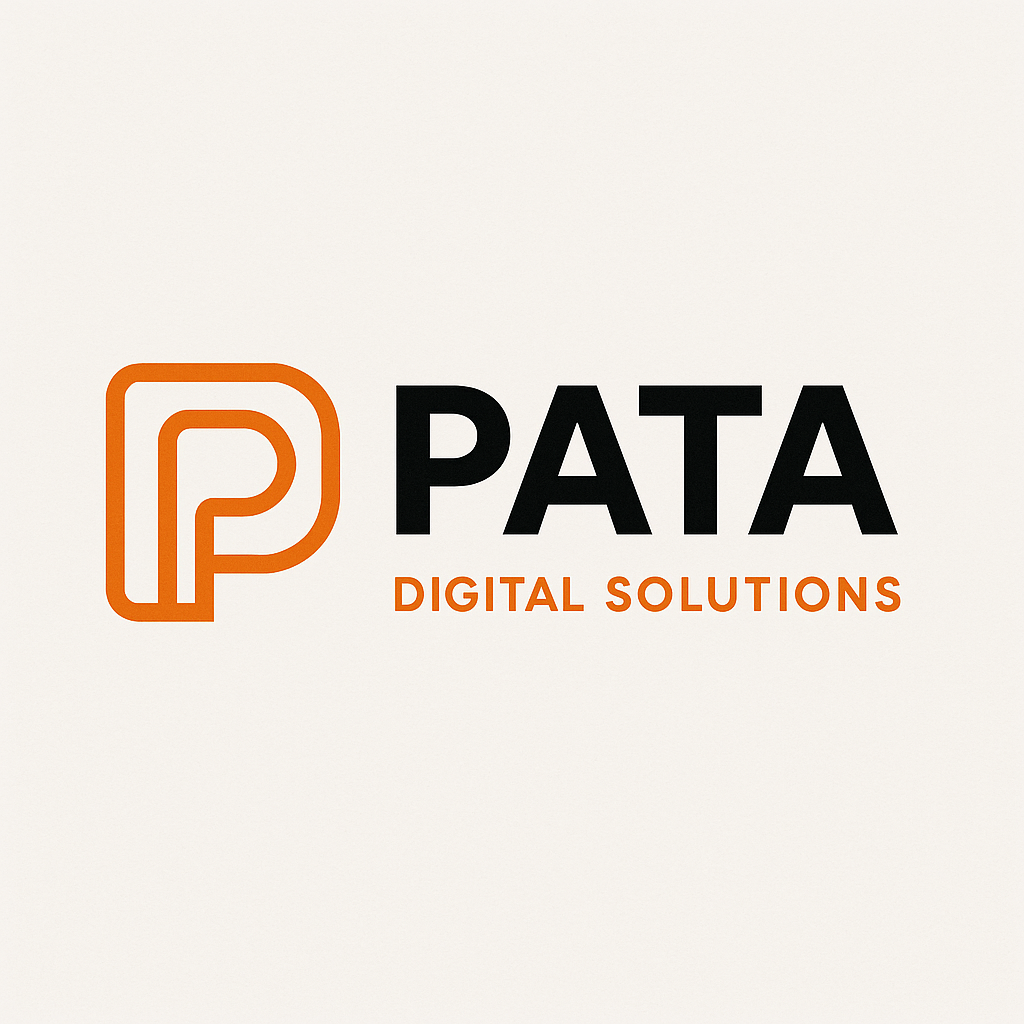
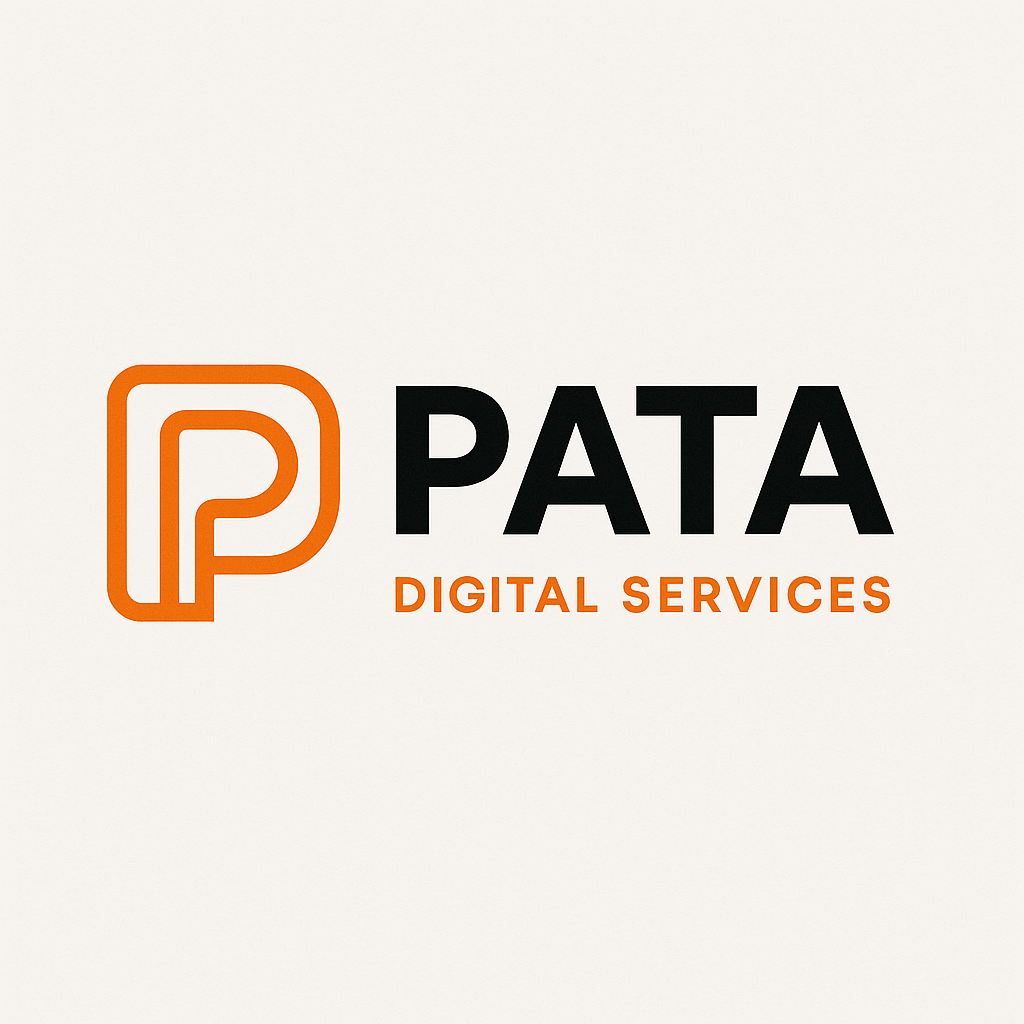
kik

diff --git a/src/components/Footer.tsx b/src/components/Footer.tsx
@@ -7,7 +7,7 @@ export default function Footer() {
         <div className="grid md:grid-cols-4 gap-8 mb-8">
           <div className="col-span-2">
             <h3 className="text-2xl font-bold mb-4">
-              PATA<span className="text-amber-500"> Web Services</span>
+              PATA<span className="text-amber-500"> Digital Services</span>
             </h3>
             <p className="text-gray-400 leading-relaxed mb-4">
               Creating exceptional web experiences that drive results. Your vision, our expertise.
@@ -84,10 +84,10 @@ export default function Footer() {
 
         <div className="border-t border-gray-900 pt-8 flex flex-col md:flex-row justify-between items-center gap-4">
           <p className="text-gray-400 text-sm flex items-center gap-2">
-            Made by PATA Digital Solutions
+            Made by PATA Digital Services
           </p>
           <p className="text-gray-400 text-sm">
-            {currentYear} PATA Digital Solutions. All rights reserved.
+            {currentYear} PATA Digital Services. All rights reserved.
           </p>
         </div>
       </div>

diff --git a/src/components/PortfolioCarousel.tsx b/src/components/PortfolioCarousel.tsx
@@ -23,11 +23,11 @@ const projects: Project[] = [
   },
   {
     id: 2,
-    title: 'Pata Main Website',
+    title: 'Pata Digital Services',
     category: 'Web Development',
     description: 'Professional and Interactive website that serves as a marketing tool for potential clients.',
     image: '/patalogwhite.png',
-    tags: ['React.js', 'SEO Optimization'],
+    tags: ['React', 'Next.jz', 'Tailwing CSS', 'SEO Optimization'],
     link: '#',
   },
   {
@@ -41,7 +41,7 @@ const projects: Project[] = [
   },
   {
     id: 4,
-    title: 'CCG Website',
+    title: 'Colts Consulting Services',
     category: 'Web Design',
     description: 'Modern website highlighting business consulting services and impact.',
     image: 'https://www.coltsccg.com/CCG%20Logo.png',

diff --git a/src/components/HeroSection.tsx b/src/components/HeroSection.tsx
@@ -2,7 +2,7 @@ import { useEffect, useState } from 'react';
 import { ArrowRight } from 'lucide-react';
 
 const codeLines = [
-  { text: 'const website = new PATA Web Services();', delay: 0 },
+  { text: 'const website = new PATA Digital Services();', delay: 0 },
   { text: 'website.design({ style: "modern" });', delay: 600 },
   { text: 'website.develop({ tech: "cutting-edge" });', delay: 1200 },
   { text: 'website.deploy({ performance: "optimized" });', delay: 2400 },

diff --git a/src/App.tsx b/src/App.tsx
@@ -5,6 +5,7 @@ import AboutUs from './components/AboutUs';
 import ServicesSection from './components/ServicesSection';
 import ContactSection from './components/ContactSection';
 import Footer from './components/Footer';
+import { Analytics } from "@vercel/analytics/react";
 
 function App() {
   return (
@@ -16,6 +17,7 @@ function App() {
       <ServicesSection />
       <ContactSection />
       <Footer />
+      <Analytics />
     </div>
   );
 }

diff --git a/src/components/Navigation.tsx b/src/components/Navigation.tsx
@@ -24,7 +24,7 @@ export default function Navigation() {
             />
 
             <span className="text-2xl font-bold text-white tracking-tight">
-              PATA<span className="text-amber-500"> Digital Solutions</span>
+              PATA<span className="text-amber-500"> Digital Services</span>
             </span>
           </div>
 
